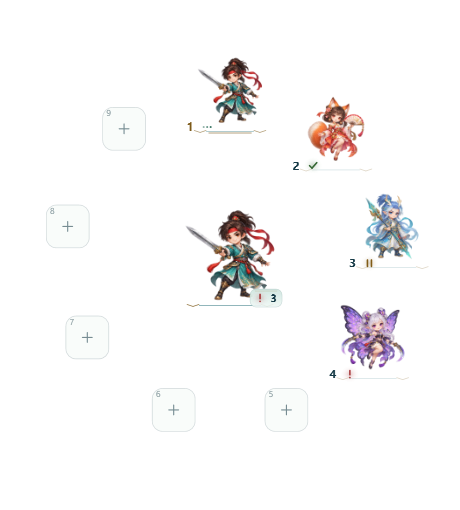
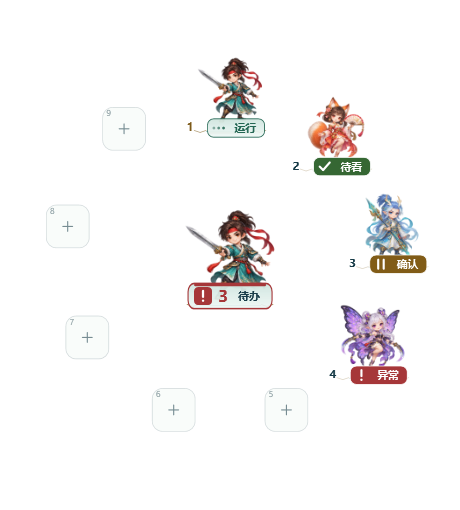
Make task status readable and add native Windows reminders

diff --git a/src/CodeManager/WheelTaskStatus.cs b/src/CodeManager/WheelTaskStatus.cs
@@ -26,8 +26,8 @@ internal readonly record struct WheelStatusSummary(int Running, int Waiting, int
     }
 }
 
-/// <summary>Quiet equipment HUD: one glyph per socket, one aggregate seal on the
-/// core. State names belong in the immediate hover hint, never around the artwork.</summary>
+/// <summary>Readable equipment HUD: high-contrast state tickets and one compact
+/// aggregate. Short captions and distinct shapes work without color or motion.</summary>
 internal static class WheelTaskStatus
 {
     private static readonly Dictionary<string,Brush> Brushes=new();
@@ -59,7 +59,7 @@ internal static class WheelTaskStatus
     private static Brush Glow(string color)
     {
         if(Glows.TryGetValue(color,out var cached))return cached;
-        var c=(Color)ColorConverter.ConvertFromString(color);c.A=65;
+        var c=(Color)ColorConverter.ConvertFromString(color);c.A=115;
         var brush=new RadialGradientBrush(c,Colors.Transparent);brush.Freeze();Glows[color]=brush;return brush;
     }
     private static Brush SealGlass(SkinDefinition skin)
@@ -118,29 +118,54 @@ internal static class WheelTaskStatus
         bool stale=Stale(slot),attention=slot.Unread && slot.Connected && slot.State is AgentState.Ready or AgentState.Waiting or AgentState.Error;
         string color=stale?skin.Unknown:slot.StateColor;
         var state=slot.Connected && !stale?slot.State:AgentState.Unknown;
-        dc.PushTransform(new TranslateTransform(-w/2+22,h/2-3));
-        Glyph(dc,skin,state,color,flow+slot.Number*.13,motion && !stale,attention);dc.Pop();
+        // Keep the weapon silhouette free: its foot carries a readable status
+        // ticket, independently of desktop wallpaper and the portrait's colors.
+        double scale=Math.Clamp(w/88,.75,1.1);
+        dc.PushTransform(new TranslateTransform(6,h/2-2));dc.PushTransform(new ScaleTransform(scale,scale));
+        double width=state==AgentState.Unknown?22:56;
+        var plate=Seal(width,skin.Family is "mechanical" or "tactical" or "protocol" or "formation");
+        string ink=attention?ContrastInk(color):color;
+        dc.DrawGeometry(attention?B(color):SealGlass(skin),P(attention?ink:color,.8),plate);
+        if(attention && motion) {
+            dc.PushOpacity(.2+.45*Math.Pow(Math.Sin(flow*Math.PI*3),2));
+            dc.DrawLine(P(color,2.2),new Point(-width/2+5,-12),new Point(width/2-5,-12));dc.Pop();
+        }
+        dc.PushTransform(new TranslateTransform(state==AgentState.Unknown?0:-17,0));
+        dc.PushTransform(new ScaleTransform(1.35,1.35));Glyph(dc,skin,state,ink,flow+slot.Number*.13,motion && !stale,false);dc.Pop();dc.Pop();
+        if(state!=AgentState.Unknown)Label(dc,state==AgentState.Ready && !slot.Unread?"已看":ShortCaption(state),ink,10.5,31,9,0);
+        dc.Pop();dc.Pop();
     }
+    internal static string ShortCaption(AgentState state) => state switch { AgentState.Ready=>"待看",AgentState.Waiting=>"确认",AgentState.Error=>"异常",AgentState.Running=>"运行",_=>"未连" };
+    private static string ContrastInk(string color) => SkinCatalog.Luminance(color)>.35?"#101B20":"#FFFFFF";
     internal static void DrawCore(DrawingContext dc,SkinDefinition skin,IReadOnlyList<Slot> slots,Slot? current,double flow,bool motion,double reveal=1)
     {
         var summary=WheelStatusSummary.From(slots);if(!CoreVisible(summary))return;
         int count=CoreCount(summary);string color=summary.Color(skin);var state=CoreState(summary);
-        double width=count>0?32:19;
-        // One small equipment seal, tucked into the lower-right corner. The only
-        // persistent text is a meaningful aggregate count; artwork remains open.
-        dc.PushTransform(new TranslateTransform(36,43));
+        bool attention=summary.Attention>0;
+        double width=count>0?84:26;
+        // A clear bottom seal fits inside the 116 px compact host. It never
+        // encloses the character or adds a second ring around the equipment.
+        dc.PushTransform(new TranslateTransform(0,41));dc.PushTransform(new ScaleTransform(1,1.4));
         var plate=Seal(width,skin.Family is "mechanical" or "tactical" or "protocol" or "formation");
-        dc.DrawGeometry(SealGlass(skin),null,plate);
-        dc.PushOpacity(.32);dc.DrawGeometry(null,P(skin.Border,.6),plate);dc.Pop();
-        dc.PushOpacity(.22);dc.DrawLine(P(skin.Accent,.6),new Point(-width/2+5,-7),new Point(width/2-5,-7));dc.Pop();
-        double glyphX=count>0?-6:0;
-        dc.PushTransform(new TranslateTransform(glyphX,0));Glyph(dc,skin,state,color,flow,motion,summary.Attention>0);dc.Pop();
-        if(count>0)Label(dc,count.ToString(CultureInfo.InvariantCulture),skin.Text,10,14,7.5,0);
-        if(motion && summary.Attention>0 && reveal<1) {
-            dc.PushOpacity((1-reveal)*.65);
-            double spread=9+reveal*10;
-            dc.DrawEllipse(B(color),null,new Point(-spread,-7-reveal*5),1.1,1.1);
-            dc.DrawEllipse(B(color),null,new Point(6+reveal*9,-11-reveal*7),.8,.8);
+        dc.DrawGeometry(SealGlass(skin),P(color,1.15),plate);
+        if(attention) {
+            double pulse=motion?.5+.5*Math.Pow(Math.Sin(flow*Math.PI*3),2):1;
+            dc.PushOpacity(pulse);dc.DrawLine(P(color,2),new Point(-width/2+7,-8),new Point(width/2-7,-8));dc.Pop();
+        }
+        dc.Pop();
+        double glyphX=count>0?-27:0;
+        dc.PushTransform(new TranslateTransform(glyphX,0));
+        dc.DrawRoundedRectangle(B(color),null,new Rect(-9,-9,18,18),4,4);
+        dc.PushTransform(new ScaleTransform(1.4,1.4));Glyph(dc,skin,state,ContrastInk(color),flow,motion,false);dc.Pop();dc.Pop();
+        if(count>0) {
+            Label(dc,count.ToString(CultureInfo.InvariantCulture),color,16,18,-7,0);
+            Label(dc,attention?"待办":"运行",skin.Text,11,28,19,0);
+        }
+        if(motion && attention && reveal<1) {
+            dc.PushOpacity((1-reveal)*.8);
+            double spread=20+reveal*32;
+            dc.DrawLine(P(color,2),new Point(-spread,-17),new Point(-spread+7,-22));
+            dc.DrawLine(P(color,2),new Point(spread-7,-22),new Point(spread,-17));
             dc.Pop();
         }
         dc.Pop();

diff --git a/src/CodeManager/TaskStatusTests.cs b/src/CodeManager/TaskStatusTests.cs
@@ -94,6 +94,51 @@ public static class TaskStatusTests
             var missing=new WheelStatusSummary(0,0,0,0,2);
             Check(WheelTaskStatus.CoreVisible(missing) && WheelTaskStatus.CoreCount(missing)==0,"Unknown state should not masquerade as a notification count");
         });
+        Test("OS reminders merge simultaneous outcomes, refresh task ordering and never include terminal message content",()=>{
+            var broker=new TaskNotifications();
+            var one=new Slot{Id="one",Number=1,Name="Login\nfeature",Window=new(){Handle=11},Connected=true,Unread=true,State=AgentState.Ready,UpdatedAt=now,Message="PRIVATE OUTPUT"};
+            var two=new Slot{Id="two",Number=2,Name="Build",Window=new(){Handle=12},Connected=true,Unread=true,State=AgentState.Waiting,UpdatedAt=now};
+            Check(broker.Queue(one,true,now,99) && broker.Queue(two,true,now,99),"Outcomes not queued");
+            Check(broker.Flush(new[]{one,two},true,now.AddMilliseconds(500),99).Length==0,"Merge window skipped");
+            one.Number=5;var batch=broker.Flush(new[]{one,two},true,now.AddSeconds(1),99);
+            Check(batch.Length==2 && batch[1].Number==5 && batch[1].Task.Id=="one","Batch or live order wrong");
+            Check(!broker.HasPending && TaskNotifications.SafeName(one.Name)=="Loginfeature","Unbounded timer or unsafe caption");
+            Check(!JsonSerializer.Serialize(batch).Contains("PRIVATE OUTPUT"),"Terminal content leaked into notification");
+        });
+        Test("OS reminders deduplicate changed messages, while a genuinely new turn can notify again",()=>{
+            var broker=new TaskNotifications();var s=new Slot{Window=new(){Handle=11},Connected=true,Unread=true,State=AgentState.Ready,UpdatedAt=now};
+            Check(broker.Queue(s,true,now,99),"First outcome missing");broker.Flush(new[]{s},true,now.AddSeconds(1),99);
+            s.Message="different message";s.UpdatedAt=now.AddSeconds(2);Check(!broker.Queue(s,true,now.AddSeconds(2),99),"Repeated outcome spammed");
+            s.State=AgentState.Running;s.Unread=false;broker.Observe(s);
+            s.State=AgentState.Ready;s.Unread=true;Check(broker.Queue(s,true,now.AddSeconds(3),99),"Next turn was suppressed");
+            s.State=AgentState.Running;s.Unread=false;broker.Observe(s);
+            s.State=AgentState.Ready;s.Unread=true;s.UpdatedAt=now.AddSeconds(8);broker.Queue(s,true,now.AddSeconds(8),99);
+            Check(broker.Flush(new[]{s},true,now.AddSeconds(8.4),99).Length==0,"Cancelled batch leaked its deadline into a new turn");
+            Check(broker.Flush(new[]{s},true,now.AddSeconds(9),99).Length==1,"New batch did not flush after its own merge window");
+        });
+        Test("OS reminders respect disabled, foreground and historical states without clearing the wheel's unread flag",()=>{
+            var broker=new TaskNotifications();var s=new Slot{Window=new(){Handle=11},Connected=true,Unread=true,State=AgentState.Ready,UpdatedAt=now.AddMinutes(-4)};
+            Check(!broker.Queue(s,true,now,99),"Historical startup burst");broker.Clear();s.UpdatedAt=now;
+            Check(!broker.Queue(s,true,now,11),"Foreground task generated OS popup");broker.Clear();
+            Check(broker.Queue(s,true,now,99),"Background outcome missing");
+            Check(broker.Flush(new[]{s},false,now.AddSeconds(1),99).Length==0 && !broker.HasPending,"Disabled reminders still delivered");
+            Check(s.Unread,"Disabling OS reminders erased visual attention");
+            Check(!broker.Queue(s,false,now,99),"Disabled queue accepted notification");
+        });
+        Test("Pending reminders cannot outlive acknowledgement, removal, session rebind or a new running turn",()=>{
+            for(int scenario=0;scenario<5;scenario++) {
+                var broker=new TaskNotifications();var s=new Slot{Id="same-slot",Window=new(){Handle=11},SessionId="old",Connected=true,Unread=true,State=AgentState.Ready,UpdatedAt=now};
+                broker.Queue(s,true,now,99);
+                if(scenario==0)s.Unread=false;else if(scenario==1)s.Window=null;else if(scenario==2)s.SessionId="new";else if(scenario==3)s.Window!.Handle=22;else{s.State=AgentState.Running;broker.Observe(s);}
+                Check(broker.Flush(new[]{s},true,now.AddSeconds(1),99).Length==0,"Stale target notification: "+scenario);
+            }
+        });
+        Test("System notification preference defaults on, persists off and copies independently of audio",()=>{
+            var p=JsonSerializer.Deserialize<Preferences>("{}")!;Check(p.SystemNotifications,"Existing profiles did not get default reminders");
+            p.SystemNotifications=false;var copy=JsonSerializer.Deserialize<Preferences>(JsonSerializer.Serialize(p.Copy()))!;
+            Check(!copy.SystemNotifications && copy.SoundEffects,"Notification preference not independent or not persisted");
+            Check(WheelTaskStatus.ShortCaption(AgentState.Ready)!=WheelTaskStatus.ShortCaption(AgentState.Waiting),"Ready and permission visually indistinguishable");
+        });
         Test("Dock teardown: a late MouseLeave without a presentation source closes hints safely",()=>{
             var dock=new DockWindow(interactionTest:true);
             try {

diff --git a/src/CodeManager/TaskNotifications.cs b/src/CodeManager/TaskNotifications.cs
@@ -1,0 +1,60 @@
+using System;
+using System.Collections.Generic;
+using System.Linq;
+
+namespace CodeManager;
+
+internal readonly record struct NotificationTask(string Id, long Handle, string Session)
+{
+    internal static NotificationTask From(Slot slot) => new(slot.Id, slot.Window?.Handle ?? 0, slot.SessionId);
+}
+internal sealed record TaskNotice(NotificationTask Task, int Number, string Name, AgentState State);
+
+/// <summary>One notification per outcome per turn, with a bounded merge window.
+/// Native balloon callbacks do not carry a task identity, so clicks open the
+/// live task overview instead of guessing which historical window was meant.</summary>
+internal sealed class TaskNotifications
+{
+    private readonly Dictionary<NotificationTask, HashSet<AgentState>> _seen = new();
+    private readonly Dictionary<NotificationTask, TaskNotice> _pending = new();
+    private DateTimeOffset? _flushAt;
+    internal bool HasPending => _pending.Count > 0;
+    internal static bool Attention(AgentState state) => state is AgentState.Ready or AgentState.Waiting or AgentState.Error;
+    internal void Observe(Slot slot)
+    {
+        var key = NotificationTask.From(slot);
+        if (!slot.Occupied || !slot.Connected || !Attention(slot.State)) {
+            _seen.Remove(key); _pending.Remove(key);
+            if (_pending.Count == 0) _flushAt = null;
+        }
+    }
+    internal bool Queue(Slot slot, bool enabled, DateTimeOffset now, long foreground)
+    {
+        if (!enabled) { Clear(); return false; }
+        Observe(slot);
+        if (!slot.Occupied || !slot.Connected || !slot.Unread || !Attention(slot.State)) return false;
+        var key = NotificationTask.From(slot);
+        if (!_seen.TryGetValue(key, out var states)) _seen[key] = states = new();
+        if (!states.Add(slot.State)) return false;
+        // Restored historical outcomes retain the wheel badge, without a burst
+        // of startup notifications. Watching this terminal needs no OS popup.
+        if (slot.UpdatedAt is not { } at || now-at > TimeSpan.FromSeconds(45) || at-now > TimeSpan.FromSeconds(5) || key.Handle == foreground) return false;
+        _pending[key] = new(key, slot.Number, slot.DisplayName, slot.State);
+        _flushAt ??= now.AddMilliseconds(900);
+        return true;
+    }
+    internal TaskNotice[] Flush(IEnumerable<Slot> slots, bool enabled, DateTimeOffset now, long foreground)
+    {
+        if (!enabled) { Clear(); return Array.Empty<TaskNotice>(); }
+        var live = slots.Where(s => s.Occupied && s.Connected).ToDictionary(NotificationTask.From);
+        foreach (var key in _seen.Keys.Where(k => !live.ContainsKey(k)).ToArray()) _seen.Remove(key);
+        if (_flushAt == null || now < _flushAt) return Array.Empty<TaskNotice>();
+        var result = _pending.Values.Where(n => live.TryGetValue(n.Task, out var s) && s.Unread && s.State == n.State && s.Window!.Handle != foreground)
+            .Select(n => n with { Number=live[n.Task].Number, Name=live[n.Task].DisplayName }).OrderBy(n => n.Number).ToArray();
+        _pending.Clear(); _flushAt = null;
+        return result;
+    }
+    internal void Clear() { _pending.Clear(); _seen.Clear(); _flushAt = null; }
+    internal static string Caption(AgentState state) => state switch { AgentState.Ready=>"回复待查看", AgentState.Waiting=>"等待确认", AgentState.Error=>"发生错误", _=>"执行中" };
+    internal static string SafeName(string name) => new string(name.Where(c => !char.IsControl(c)).Take(48).ToArray());
+}

diff --git a/src/CodeManager/Manager.Notifications.cs b/src/CodeManager/Manager.Notifications.cs
@@ -1,0 +1,43 @@
+using System;
+using System.Linq;
+using System.Windows.Threading;
+using Forms = System.Windows.Forms;
+
+namespace CodeManager;
+
+public sealed partial class Manager
+{
+    private readonly TaskNotifications _notifications = new();
+    private DispatcherTimer? _notificationTimer;
+    private void InitializeNotifications()
+    {
+        _notificationTimer = new DispatcherTimer { Interval=TimeSpan.FromMilliseconds(300) };
+        _notificationTimer.Tick += (_, _) => FlushNotifications();
+        _tray.BalloonTipClicked += (_, _) => Dock.Dispatcher.BeginInvoke(new Action(() => {
+            if (_disposed || Exiting || _dialog) return;
+            // An OS balloon has no activation payload: always show current tasks,
+            // never activate a possibly removed/reused slot from an old popup.
+            if (_inventory == null) ToggleInventory();
+        }));
+    }
+    private void QueueNotification(Slot slot)
+    {
+        if (_notifications == null || _notificationTimer == null || _disposed) return;
+        if (_notifications.Queue(slot, State.Preferences.SystemNotifications, DateTimeOffset.UtcNow, Native.GetForegroundWindow().ToInt64())) _notificationTimer.Start();
+    }
+    private void FlushNotifications()
+    {
+        if (_disposed) { _notificationTimer?.Stop(); return; }
+        var notices = _notifications.Flush(State.Slots, State.Preferences.SystemNotifications, DateTimeOffset.UtcNow, Native.GetForegroundWindow().ToInt64());
+        if (!_notifications.HasPending) _notificationTimer?.Stop();
+        if (notices.Length == 0) return;
+        _notificationTimer?.Stop();
+        string title = notices.Length == 1 ? "OmniVibe · " + TaskNotifications.Caption(notices[0].State) : "OmniVibe · " + notices.Length + " 项待处理";
+        string body = string.Join("\n", notices.Take(3).Select(n => n.Number + " · " + TaskNotifications.SafeName(n.Name) + " — " + TaskNotifications.Caption(n.State)));
+        if (notices.Length > 3) body += "\n另有 " + (notices.Length-3) + " 项";
+        body += "\n点击打开任务总览";
+        try { _tray.ShowBalloonTip(6000, title, body, notices.Any(n => n.State==AgentState.Error) ? Forms.ToolTipIcon.Warning : Forms.ToolTipIcon.Info); }
+        catch (InvalidOperationException e) { Store.Log("System notification: " + e.Message); }
+        catch (System.ComponentModel.Win32Exception e) { Store.Log("System notification: " + e.Message); }
+    }
+}

diff --git a/src/CodeManager/SettingsWindow.cs b/src/CodeManager/SettingsWindow.cs
@@ -141,6 +141,8 @@ public sealed class SettingsWindow : Window
         var startup = Options(new[] { "只显示悬浮入口", "重连仍在运行的窗口", "重连窗口，并显示待恢复任务", "重连窗口，并自动打开已配置任务" }, source.AutoRestoreOnStartup ? 3 : source.ShowRecoveryOnStartup ? 2 : source.AutoReconnectExisting ? 1 : 0); general.Children.Add(startup);
         var pause = Check("本次运行暂停全局快捷键（鼠标仍可用）", shortcutsPaused); general.Children.Add(pause);
         var audio = new AudioSettingsPanel(source, () => skin.SelectedSkin); generalPage.Children.Add(audio);
+        var reminders = Section(generalPage, "任务提醒", "后台任务回复、等待确认或出错时提醒；同一状态不重复，点击通知打开总览。");
+        var systemNotifications = Check("启用 Windows 系统通知", source.SystemNotifications); reminders.Children.Add(systemNotifications);
         var maintenance = new StackPanel();
         var history = new Button { Content = "查看最近任务 / 恢复工作现场", HorizontalAlignment = HorizontalAlignment.Left, Margin = new Thickness(0, 6, 0, 6) }; history.Click += (_, _) => RecoveryRequested?.Invoke(); maintenance.Children.Add(history);
         var data = new Button { Content = "打开配置目录", HorizontalAlignment = HorizontalAlignment.Left }; data.Click += (_, _) => DataDirectoryRequested?.Invoke(); maintenance.Children.Add(data);
@@ -176,6 +178,7 @@ public sealed class SettingsWindow : Window
             candidate.Animate = quality.SelectedIndex == 0; candidate.DecorationsEnabled = quality.SelectedIndex != 2;
             candidate.ShowRecoveryOnStartup = startup.SelectedIndex >= 2; candidate.AutoReconnectExisting = startup.SelectedIndex >= 1; candidate.AutoRestoreOnStartup = startup.SelectedIndex == 3;
             if (!audio.TryCommit(candidate, out string audioError)) { Fail(audioError); return; }
+            candidate.SystemNotifications = systemNotifications.IsChecked == true;
             await CommitAsync(candidate, mini.IsChecked == true, pause.IsChecked == true);
         };
         Content = root;

diff --git a/src/CodeManager/Manager.cs b/src/CodeManager/Manager.cs
@@ -84,6 +84,7 @@ public sealed partial class Manager : IDisposable
         _dragTimer.Tick += (_, _) => DragTick();
         _trayIcon = ProductIcon.CreateTrayIcon();
         _tray = new Forms.NotifyIcon { Icon = _trayIcon, Text = "OmniVibe · AI 任务武器栏", Visible = true };
+        InitializeNotifications();
         var menu = new Forms.ContextMenuStrip { BackColor = System.Drawing.Color.FromArgb(22, 30, 27), ForeColor = System.Drawing.Color.FromArgb(250, 234, 203), Font = new System.Drawing.Font("Microsoft YaHei UI", 10), Renderer = new TrayMenuRenderer() };
         menu.Items.Add("显示 / 隐藏悬浮入口", null, (_, _) => Dock.Dispatcher.Invoke(ToggleVisibility));
         menu.Items.Add(InventoryMenuLabel, null, (_, _) => Dock.Dispatcher.Invoke(ToggleInventory));
@@ -633,6 +634,7 @@ public sealed partial class Manager : IDisposable
         slot.UpdatedAt = timestamp;
         slot.Unread = (state is AgentState.Waiting or AgentState.Ready or AgentState.Error) && (changed || slot.Unread);
         slot.Refresh();
+        _notifications?.Observe(slot);
         if (_processingStatusBatch)
         {
             _statusBatchDirty = true;
@@ -645,6 +647,7 @@ public sealed partial class Manager : IDisposable
     }
     private void NotifyStatus(Slot slot)
     {
+        QueueNotification(slot);
         Dock.Pulse(slot); Hint(slot.Number + " · " + slot.DisplayName + "：" + slot.StateLabel);
         if (slot.State == AgentState.Waiting) PlayCue(AudioCue.Waiting, slot);
         else if (slot.State == AgentState.Ready) PlayCue(AudioCue.Ready, slot);
@@ -979,7 +982,7 @@ public sealed partial class Manager : IDisposable
     public void Dispose()
     {
         if (_disposed) return; _disposed = true; Exiting = true;
-        _heartbeat.Stop(); _dragTimer.Stop();
+        _heartbeat.Stop(); _dragTimer.Stop(); _notificationTimer?.Stop(); _notifications.Clear();
         CheckpointWindows();
         _input.Dispose(); CancelInteraction(); Dock.ClosePreview(); InkEffects.CancelVisuals();
         GameAudio.Stop();

diff --git a/src/CodeManager/Models.cs b/src/CodeManager/Models.cs
@@ -47,6 +47,7 @@ public sealed class Preferences
     public double SoundVolume { get; set; } = .45;
     public bool ImmersiveAudio { get; set; } = true;
     public bool SoundNotifications { get; set; } = true;
+    public bool SystemNotifications { get; set; } = true;
     public bool ShowRecoveryOnStartup { get; set; } = true;
     public bool AutoReconnectExisting { get; set; } = true;
     public bool AutoRestoreOnStartup { get; set; }

diff --git a/docs/task-status/README.md b/docs/task-status/README.md
@@ -1,6 +1,12 @@
 # 轮盘任务状态
 
-收起时，角色／武器右下角仅保留一个小型状态印记和必要的数字，表示全部任务的待处理总数或运行数量；没有待处理或运行任务时，已查看的状态自然退场。展开后，状态符号与原有槽位编号排列在一起，不再常驻状态文字、粗光轨和多重计数。悬停立即显示完整含义，任务总览保留详细状态。待处理标记保留到进入对应任务、手动标记已查看，或该会话开始下一轮。窗口处在前台本身不再吞掉完成提醒。
+收起时，角色／武器下方显示高对比状态徽章：放大的状态符号、待处理总数和两字「待办」，没有待办时显示运行数量。展开后，各槽位脚部显示「运行／待看／确认／异常」短签；待处理使用实色底，运行使用主题玻璃底。符号和短词共同区分状态，避免只靠颜色与细线。已查看回复变为「已看」，已查看且空闲时中心徽章退场。悬停与任务总览保留详细含义。待处理保留到进入对应任务、手动标记已查看，或开始下一轮。窗口处在前台本身不吞掉轮盘的完成提醒。
+
+[本轮前后对比](readable-hud-comparison.png) · [十三套皮肤校准](readable-hud-themes.png)
+
+设置 → 常规 → 任务提醒，可关闭默认启用的 **Windows 系统通知**。只对后台窗口新出现的回复、等待确认、错误发出提醒；900 毫秒内合并，同一任务同一轮的相同状态不因消息变化反复弹出。前台正在看的窗口与超过 45 秒的历史事件只保留轮盘标记，避免启动时的旧提醒轰炸。点击系统通知打开当前任务总览，不根据历史槽位编号误开已被替换的窗口。通知只包含任务名和状态，不包含终端输出。关闭通知不影响轮盘提醒。
+
+系统通知使用现有托盘图标的原生通知接口，无额外常驻进程、无安装包依赖。Windows 的免打扰、系统通知设置会影响实际弹出；轮盘仍保留待处理标记。[接口依据](https://learn.microsoft.com/en-us/dotnet/api/system.windows.forms.notifyicon.showballoontip?view=windowsdesktop-10.0)、[点击回调](https://learn.microsoft.com/en-us/dotnet/api/system.windows.forms.notifyicon.balloontipclicked?view=windowsdesktop-10.0)。
 
 状态来源按能够确认的信息接入：
 
@@ -10,7 +16,7 @@
 
 当前终端标题与本地会话标题唯一、完整对应时会自动连接；已保存的会话 ID 和路径会继续使用。名称重复、改名或自定义宿主无法唯一对应时，在任务菜单选择「连接当前 CLI 会话状态…」，选一次现有会话即可，不需要关闭或重启 CLI。精确权限事件可从同一菜单的 hooks 接入进入。
 
-十三套皮肤均使用自己的运行、等待、完成和错误配色：运行是轻微流动的三点／能量条，已回复是勾记，等待是暂停印记，异常是叹号。小型印记以各主题的玻璃、玉石或切角金属形式呈现；待处理有低幅呼吸，新通知短暂亮起后回归平静。关闭界面动效仍保留符号、颜色与数字。武器与角色立绘不增加包围圆环。
+十三套皮肤均使用自己的运行、等待、完成和错误配色：运行是流动的三点／能量条，已回复是勾记，等待是暂停印记，异常是叹号。徽章沿用各主题的玻璃、玉石或切角金属形式，实色底自动选择深色或白色文字保证对比；待处理有短光条呼吸，新通知短暂亮起。关闭动效仍保留符号、颜色与文字数字。武器与角色立绘不增加包围圆环。
 
 轮询和文件解析在后台执行，状态更新约 1 秒；会话发现每 8 秒缓存一次；单次每文件最多读取 128 KiB，保留未完成的 UTF-8 行。辅助功能探测独立执行，不阻塞会话读取，隐藏轮盘会停止状态动效；没有已连接窗口时不扫描会话。
 
